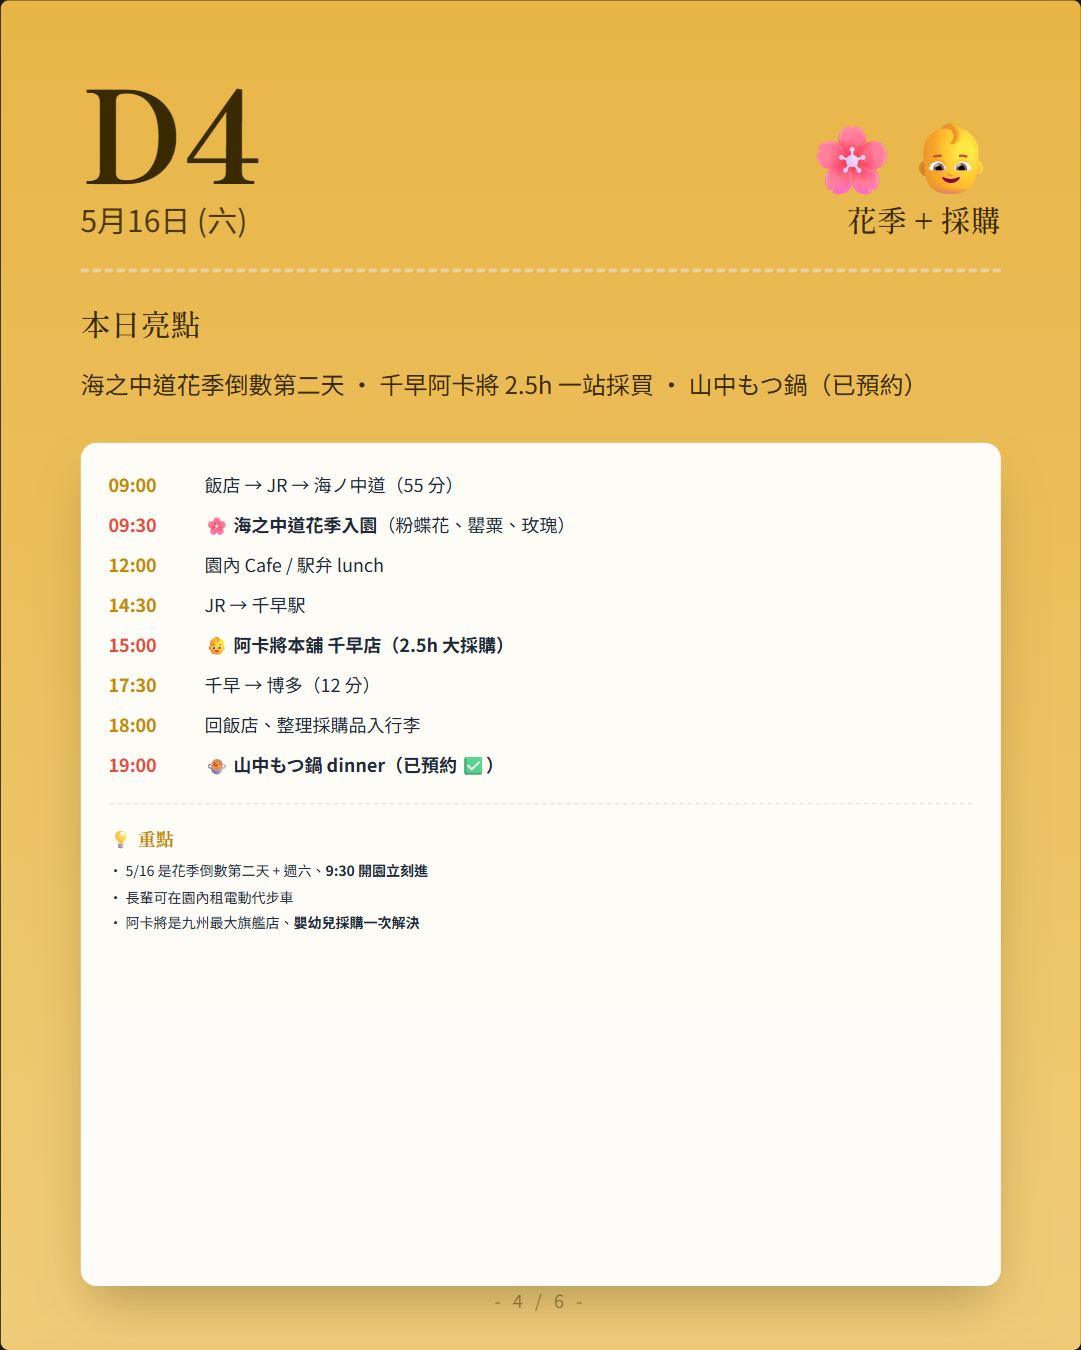
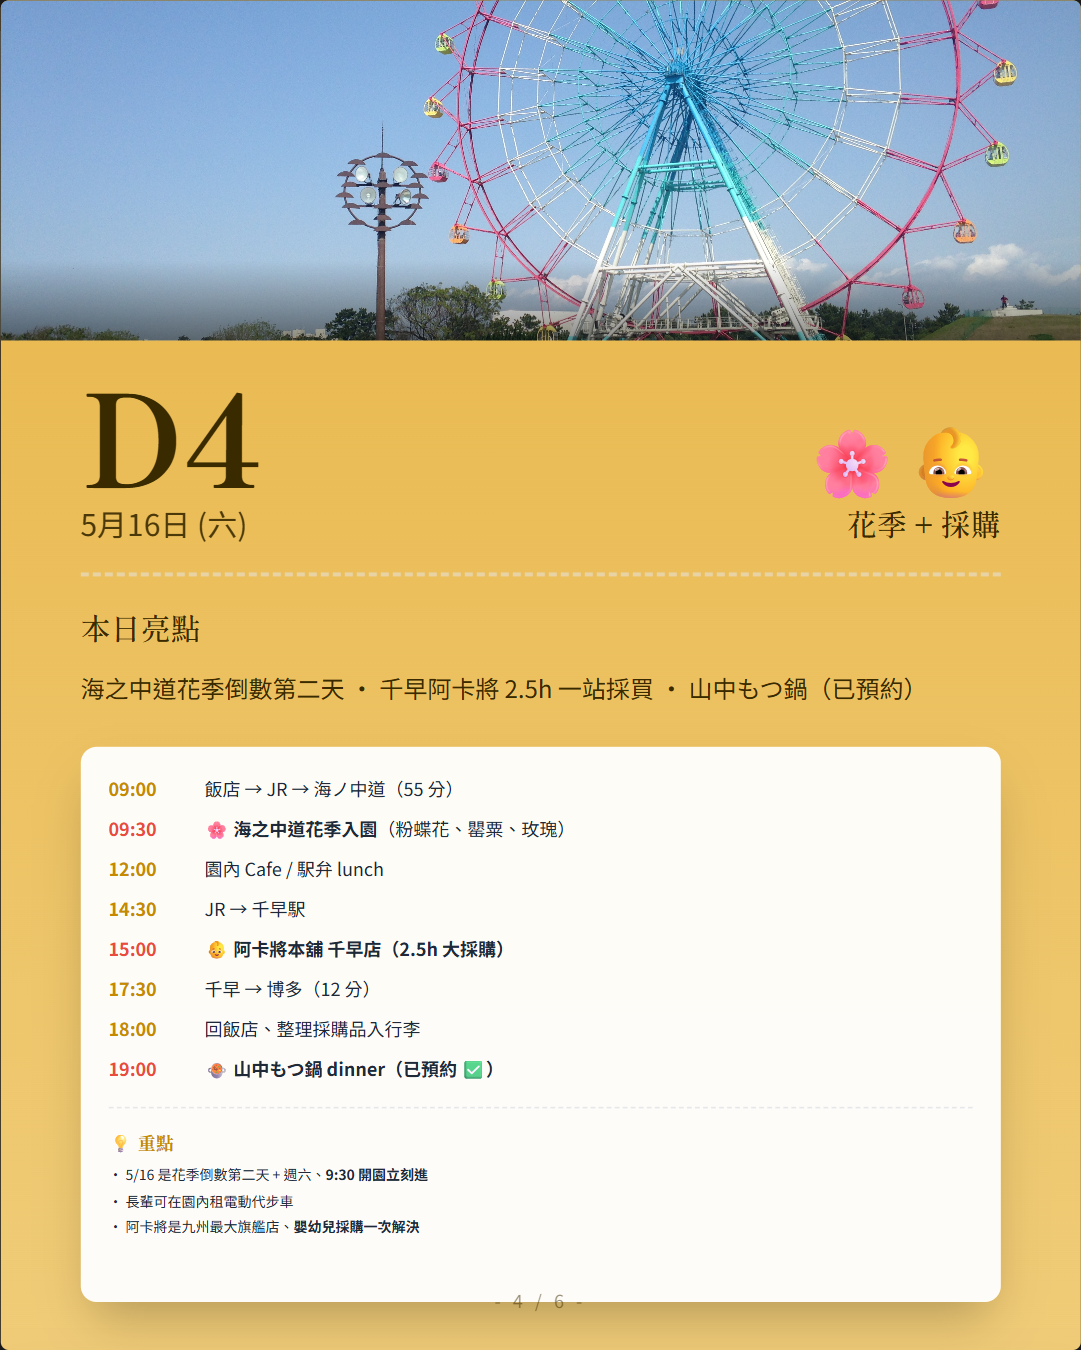
Add hero images to 9 cards (Wikimedia Commons sources)

diff --git a/heroes/ATTRIBUTION.md b/heroes/ATTRIBUTION.md
@@ -1,0 +1,51 @@
+# Image Attribution
+
+All hero images sourced from Wikipedia / Wikimedia Commons under CC-BY / CC-BY-SA / public domain licenses.
+
+- **05-D1-arrival.jpg** — 博多駅 (ja.wikipedia.org)
+  - File: JR_Hakata_City_2011_Jan.jpg
+  - License: CC BY-SA 3.0
+  - Credit: ぱちょぴ
+  - Source: https://upload.wikimedia.org/wikipedia/commons/e/e6/JR_Hakata_City_2011_Jan.jpg
+
+- **06-D2-dazaifu.jpg** — 太宰府天満宮 (ja.wikipedia.org)
+  - File: 3840px-20100719_Dazaifu_Tenmangu_Shrine_3328.jpg
+  - License: see Commons page
+  - Credit: Wikimedia contributors
+  - Source: https://upload.wikimedia.org/wikipedia/commons/thumb/8/8b/20100719_Dazaifu_Tenmangu_Shrine_3328.jpg/3840px-20100719_Dazaifu_Tenmangu_Shrine_3328.jpg
+
+- **07-D3-yanagawa.jpg** — 柳川市 (ja.wikipedia.org)
+  - File: Fukuoka_Yanagawa03bs3200.jpg
+  - License: CC BY 2.5
+  - Credit: 663highland
+  - Source: https://upload.wikimedia.org/wikipedia/commons/2/2c/Fukuoka_Yanagawa03bs3200.jpg
+
+- **08-D4-uminonakamichi.jpg** — 海の中道海浜公園 (ja.wikipedia.org)
+  - File: Ferris_wheel_and_nemophila_in_Umino_Nakamichi_Seaside_Park.JPG
+  - License: CC BY-SA 4.0
+  - Credit: そらみみ (Soramimi)
+  - Source: https://upload.wikimedia.org/wikipedia/commons/f/f9/Ferris_wheel_and_nemophila_in_Umino_Nakamichi_Seaside_Park.JPG
+
+- **09-D5-hakata-leisure.jpg** — 櫛田神社_(福岡市) (ja.wikipedia.org)
+  - File: Kushidajinjafukuoka01.jpg
+  - License: CC BY-SA 3.0
+  - Credit: Pontafon
+  - Source: https://upload.wikimedia.org/wikipedia/commons/4/4b/Kushidajinjafukuoka01.jpg
+
+- **10-D6-checkout.jpg** — 福岡空港 (ja.wikipedia.org)
+  - File: 3840px-Fukuoka_Airport_Domestic_Terminal.jpg
+  - License: see Commons page
+  - Credit: Wikimedia contributors
+  - Source: https://upload.wikimedia.org/wikipedia/commons/thumb/1/12/Fukuoka_Airport_Domestic_Terminal.jpg/3840px-Fukuoka_Airport_Domestic_Terminal.jpg
+
+- **11-restaurants.jpg** — もつ鍋 (ja.wikipedia.org)
+  - File: Motsunabe.jpg
+  - License: CC BY-SA 3.0
+  - Credit: w:ja:利用者:Hykw-a4
+  - Source: https://upload.wikimedia.org/wikipedia/commons/6/61/Motsunabe.jpg
+
+- **14-souvenirs.jpg** — 明太子 (ja.wikipedia.org)
+  - File: Alaska pollack liver roe milt.jpg
+  - License: CC BY 4.0
+  - Credit: yoyo
+  - Source: https://upload.wikimedia.org/wikipedia/commons/thumb/f/f7/Alaska_pollack_liver_roe_milt.jpg/1920px-Alaska_pollack_liver_roe_milt.jpg?utm_source=commons.wikimedia.org&utm_campaign=imageinfo&utm_content=thumbnail
